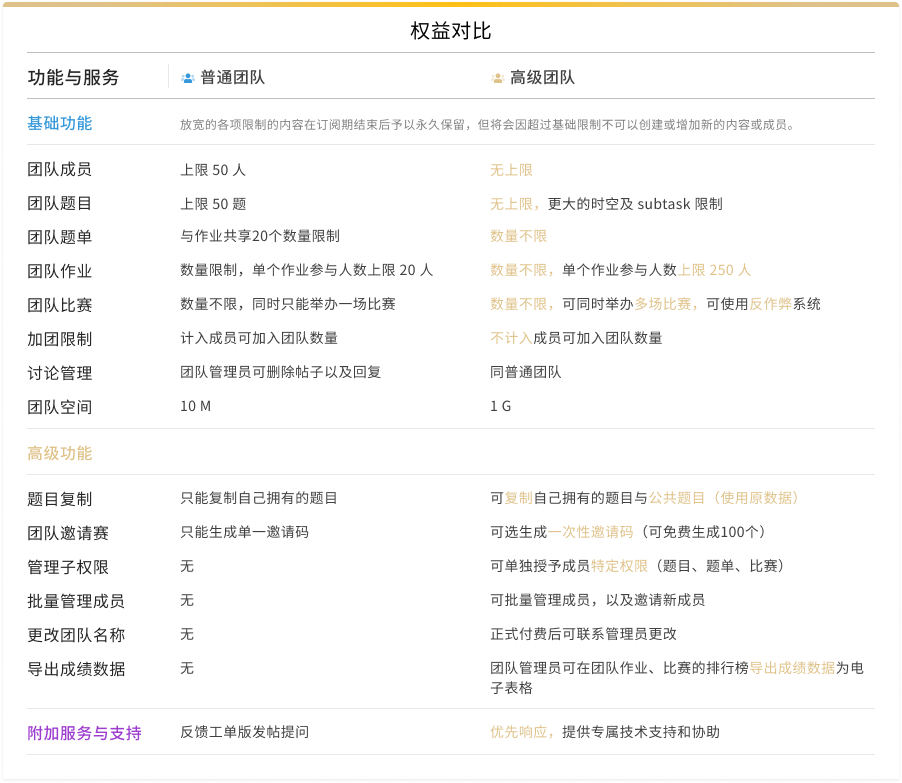
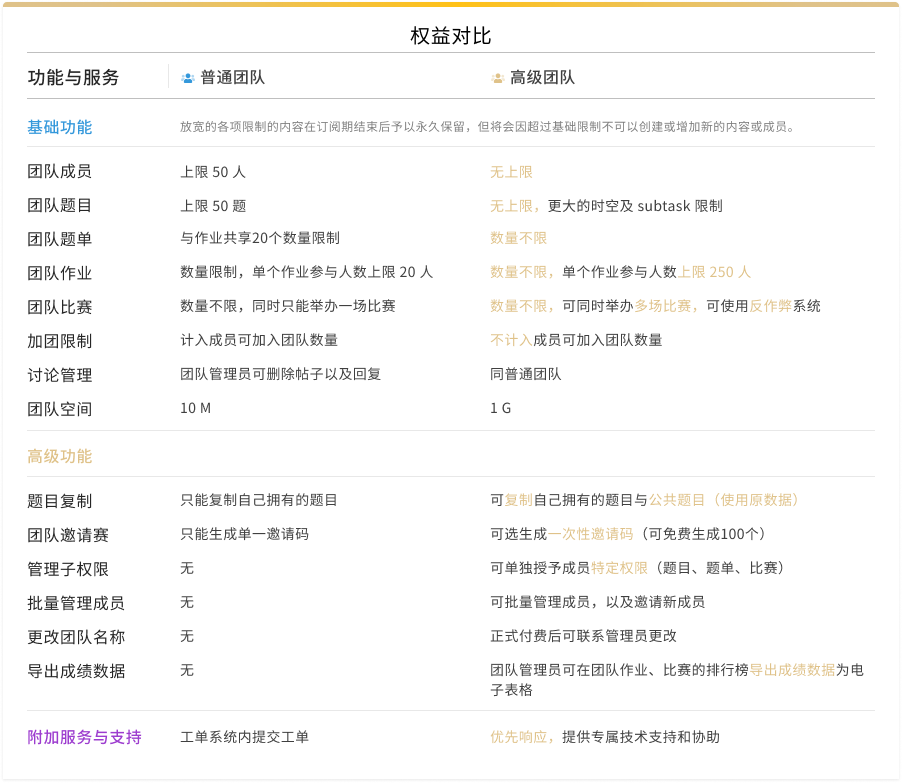
250616 (#122)

diff --git a/docs/manual/class/course-enroll.md b/docs/manual/class/course-enroll.md
@@ -10,8 +10,8 @@ tags:
 
 1. 我们推荐**使用电脑**报名和观看洛谷网校的课程。
 2. 对于家长朋友请**优先使用**【您孩子的账号】进行操作，因为后续是您的孩子在学习和训练。如果要为其他账号报名课程请特别留意[【第 9 步】](#step-9)。
-3. 如果您觉得订单页面显示的组合优惠金额不对请先付款后再联系客服处理，以提高效率。
-4. 如果订单**付款失败**请看[【第 14 步】](#step-14)重新付款。
+3. 如果有优惠没有正确计算请在完成[【第 11 步】提交订单](#step-11)后联系客服处理。
+4. 如果订单**付款失败、或改价后**请看[【第 14 步】](#step-14)重新付款。
 5. **开发票**请看[【第 15 步】](#step-15)
 6. 报名成功后请重新进入网校主页，点击左侧【学习】，就可以进入学习中心（[https://class.luogu.com.cn/learn](https://class.luogu.com.cn/learn)）。选择【我的课程】就能看到所有已报名的课程。
 
@@ -75,6 +75,10 @@ tags:
 
 ![点击确认购买](https://cdn.luogu.com.cn/upload/pic/46299.png)
 
+如果您觉得订单金额有错，有优惠没有计算也请先点击【确认购买】提交订单后再联系网校客服处理，否则客服无法为您处理。
+
+所以已提交的订单都会显示在网校个人中心[历史订单](https://class.luogu.com.cn/me#history)内，因此请不要反复提交订单。
+
 ### 12.跳转至【洛谷支付】进行付款 {#step-12}
 
 如果需要对公转账选择【银行转账】后按界面提示转账即可。
@@ -89,7 +93,7 @@ tags:
 
 ### 14.对历史订单付款 {#step-14}
 
-如果【暂时还不想付款，或者因为各种原因付款失败】，可以点击头像进入个人中心，在历史订单中查看订单并对未付款订单付款。
+如果【暂时还不想付款，或者因为各种原因付款失败】，可以点击头像进入个人中心，在[历史订单](https://class.luogu.com.cn/me#history)中查看订单并对未付款订单付款。
 
  **如果订单没有错误，您不需要重新提交订单，只需进行支付即可。**
 
@@ -99,7 +103,7 @@ tags:
 
 ### 15.申请开票 {#step-15}
 
-如需开发票请付款完成后，点击历史订单内的对应订单的【查看详情/开票】，然后在订单详情内点击【登记发票信息】，在弹出的界面内填写。
+如需开发票请付款完成后，点击[历史订单](https://class.luogu.com.cn/me#history)内的对应订单的【查看详情/开票】，然后在订单详情内点击【登记发票信息】，在弹出的界面内填写。
 
 ![查看详情/开票](https://ipic.luogu.com.cn/badjp.png)
 
@@ -116,8 +120,11 @@ tags:
 在付款时选择【银行转账】，付款后请联系管理员开通权限。
 
 > 账号：`8888 8885 9930 0884`
-> 开户行：浙江网商银行股份有限公司（浙江-杭州-没有支行）  
-> 户名：上海洛谷网络科技有限公司  
+> 
+> 开户行：浙江网商银行股份有限公司（浙江-杭州-没有支行）
+> 
+> 户名：上海洛谷网络科技有限公司
+> 
 > 联行号: `3233 3100 0001`（注意这个不是账号，一般仅于开户行列表中找不到网商银行时使用）
 
 如果您对网校报名还有任何疑问，可以[联系客服](https://class.luogu.com.cn/service)。

diff --git a/docs/rules/community/ticket.md b/docs/rules/community/ticket.md
@@ -36,11 +36,11 @@
 
 - 题面修缮：反馈试题题面存在的可能问题。
     - 适用场景：题面含有歧义、题面的 LaTeX/Markdown 排版混乱、中英文翻译不匹配等情况。
-    - 反馈方式：用户应当明确地在提供的题面范例中修改提交正确的题面或者翻译。若提供翻译，则翻译应当符合 [题面翻译规范](https://www.luogu.com.cn/discuss/910780)。未明确指出问题、问题过于细微或者无意义、或者提交的题面不符合要求的工单可能将被关闭。
+    - 反馈方式：用户应当明确地在提供的题面范例中修改提交正确的题面或者翻译。若提供翻译，则翻译应当符合 [主题库题目规范-多语言](../academic/problem-standard.md#translate)。未明确指出问题、问题过于细微或者无意义、或者提交的题面不符合要求的工单可能将被关闭。
     - 其他注意事项：目前仅接受中文版本的题面，或者对原有的英语、日语题面的修复，不接受中译英、日译英等版本的题面。
 
 - 改进标签、难度：反馈试题标签、难度存在的可能问题：
-    - 使用场景：试题的算法/来源标签存在缺漏错误、试题的难度标定不合理等。原则上，试题的难度标定不接受相邻一个档次的修改。
+    - 适用场景：试题的算法/来源标签存在缺漏错误、试题的难度标定不合理等。原则上，试题的难度标定不接受相邻一个档次的修改。
     - 反馈方式：用户应当清晰具体地指出算法标签、难度标签存在的问题并且给出对应更合适的算法或者难度标签。用户的解释应当是合理的、可令人接受信服的。
 
 此工单可由任意具有【题目管理】权限的管理员以及【题目管理志愿者】处理。

diff --git a/docs/rules/academic/problem-standard.md b/docs/rules/academic/problem-standard.md
@@ -11,7 +11,7 @@ sidebar_label: 主题库题目规范
 
 主题库中已有的题目将会保留，管理员会根据本规范逐步修改；新加题目和公开赛题目均需严格遵守本规范。
 
-当前版本更新时间：2023-09-19。
+当前版本更新时间：2025-07。
 
 :::
 
@@ -119,10 +119,18 @@ sidebar_label: 主题库题目规范
 
 - 原则上，时空限制应至少为 std 在最坏情况下的 $1.5$ 倍，且不应过小或过大。
 
-## 题目翻译 {#translate}
+## 多语言 {#translate}
 
 - 排版必须遵守本规范中的[**基本规范**](#base)。
-- 由于即将开始题面多语言化，现在提交的翻译必须遵守[临时翻译规范](https://www.luogu.com.cn/discuss/910780)中的规定。
+- 需要遵循原语言版本的内容进行完整翻译，不得夹带译者私货（含求通过等其他非翻译内容）。不能仅提供形式化题意。
+  - 对于不影响题意的内容（如外国人名、题面自创新名词），允许保留原文并附加注释声明不影响理解题意（有能力的可以概括下大意）。
+  - 对于专有名词可在翻译中使用`（ ）`标注外语原文。
+- RemoteJudge 的试题，除了在被知名书籍引用且被翻译的情况外，题目标题无需进行任何翻译，请照原样抄写标题。
+- 允许使用 AI 进行辅助翻译，但必须注明使用了 AI 进行翻译。用户应当人工进行校对，确保用词准确，表达符合规范。
+
+## 反馈须知
+
+对于主题库题目题面中存在的不符合本规范的错误，请在题目详情页点击【题目反馈】进入工单系统，建立【题面修缮】工单进行反馈。
 
 ## 投题须知
 

diff --git a/docs/manual/luogu/team/premium.md b/docs/manual/luogu/team/premium.md
@@ -16,7 +16,7 @@
 :::note[注：]
 
 * 放宽的各项限制的内容在订阅期结束后予以永久保留，但将会因超过基础限制不可以创建或增加新的内容或成员。
-* 如需运行反作弊请在比赛后发送比赛链接到邮箱 k@luogu.org 申请查重（仅限实际付费用户）
+* 如需运行反作弊请在比赛后发送比赛链接到邮箱 `k@luogu.org` 申请查重（仅限实际付费用户）
 
 :::
 
@@ -122,10 +122,12 @@
 对公转账账户信息：
 
 > 账号：`8888 8885 9930 0884`
-> 开户行：浙江网商银行股份有限公司（浙江-杭州-没有支行）  
-> 户名：上海洛谷网络科技有限公司  
+> 
+> 开户行：浙江网商银行股份有限公司（浙江-杭州-没有支行）
+> 
+> 户名：上海洛谷网络科技有限公司
+> 
 > 联行号: `3233 3100 0001`（注意这个不是账号，一般仅于开户行列表中找不到网商银行时使用）
-
 
 ## 六、发票说明
 

diff --git a/src/pages/release-note.md b/src/pages/release-note.md
@@ -2,7 +2,16 @@
 
 ## 2025 年
 
-## 5月
+## 6 月
+
+### 题库前端
+
+- 题库新前端页面完整上线：题目列表、题目编辑页面已适配新前端。
+- 题目列表：题目筛选机制微调，对于较复杂的筛选条件不再自动提交，需要用户点击【搜索】按钮或按【Enter】键手动提交搜索。
+- 题目列表：修正题目列表内显示的难度、标签与实际状态不符合的问题。
+- 题目编辑：分离题面与题目参数，允许管理员为公开题目（P 题、B 题、RemoteJudge 题）添加多语言题面，普通用户可提交工单贡献。目前私有题目不开放多语言题面。
+
+## 5 月
 
 ### 奖项认证
 
@@ -13,7 +22,7 @@
 - 上线文章广场搜索功能。
 - 文章置顶功能回归，现在可以在个人主页内将部分专栏文章置顶显示。
 
-## 4月
+## 4 月
 
 ### 工单系统
 
